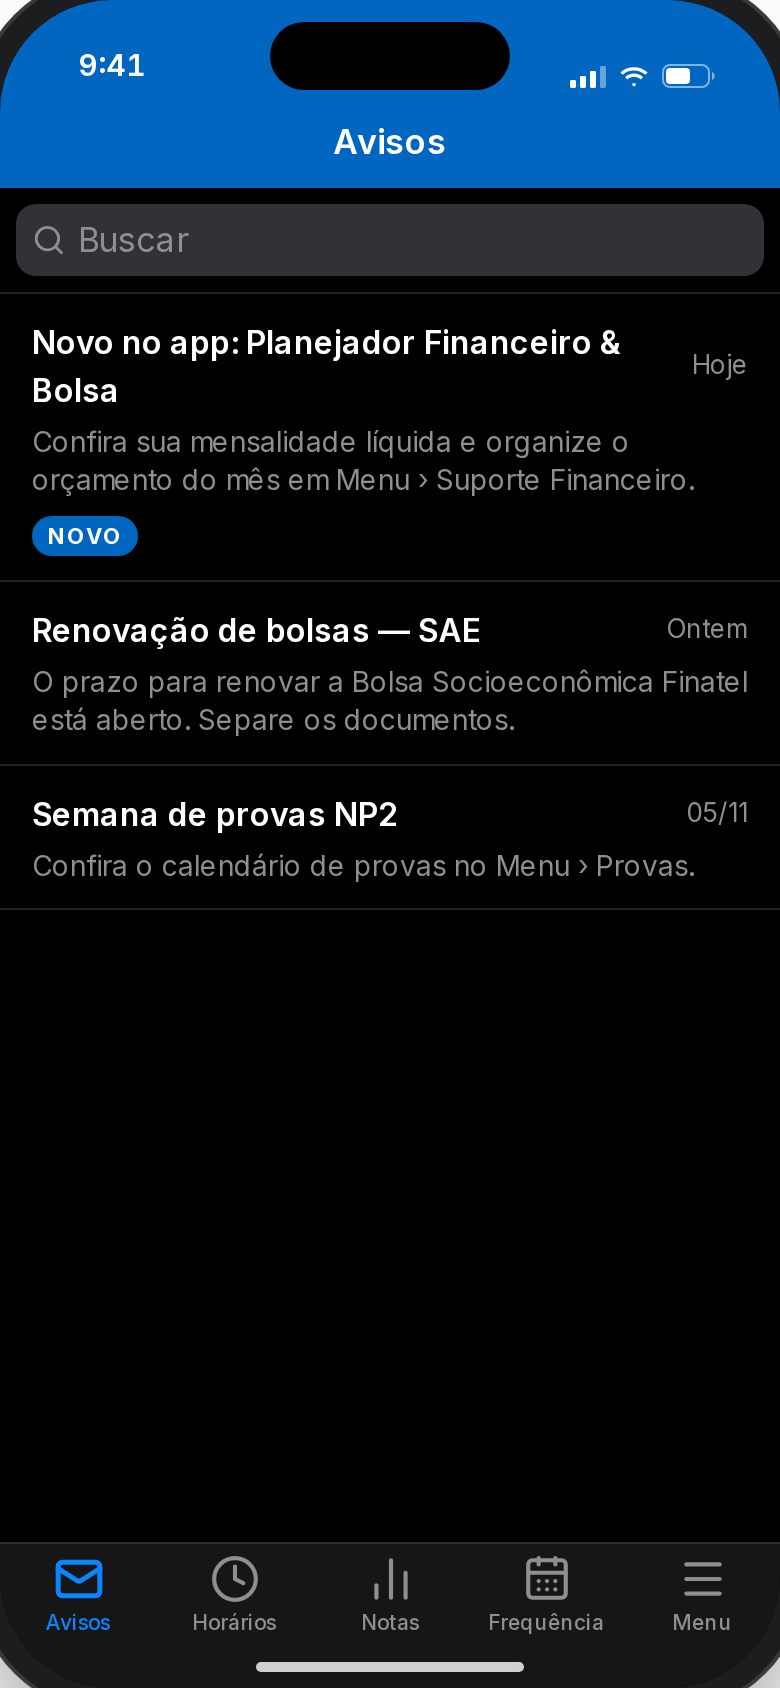
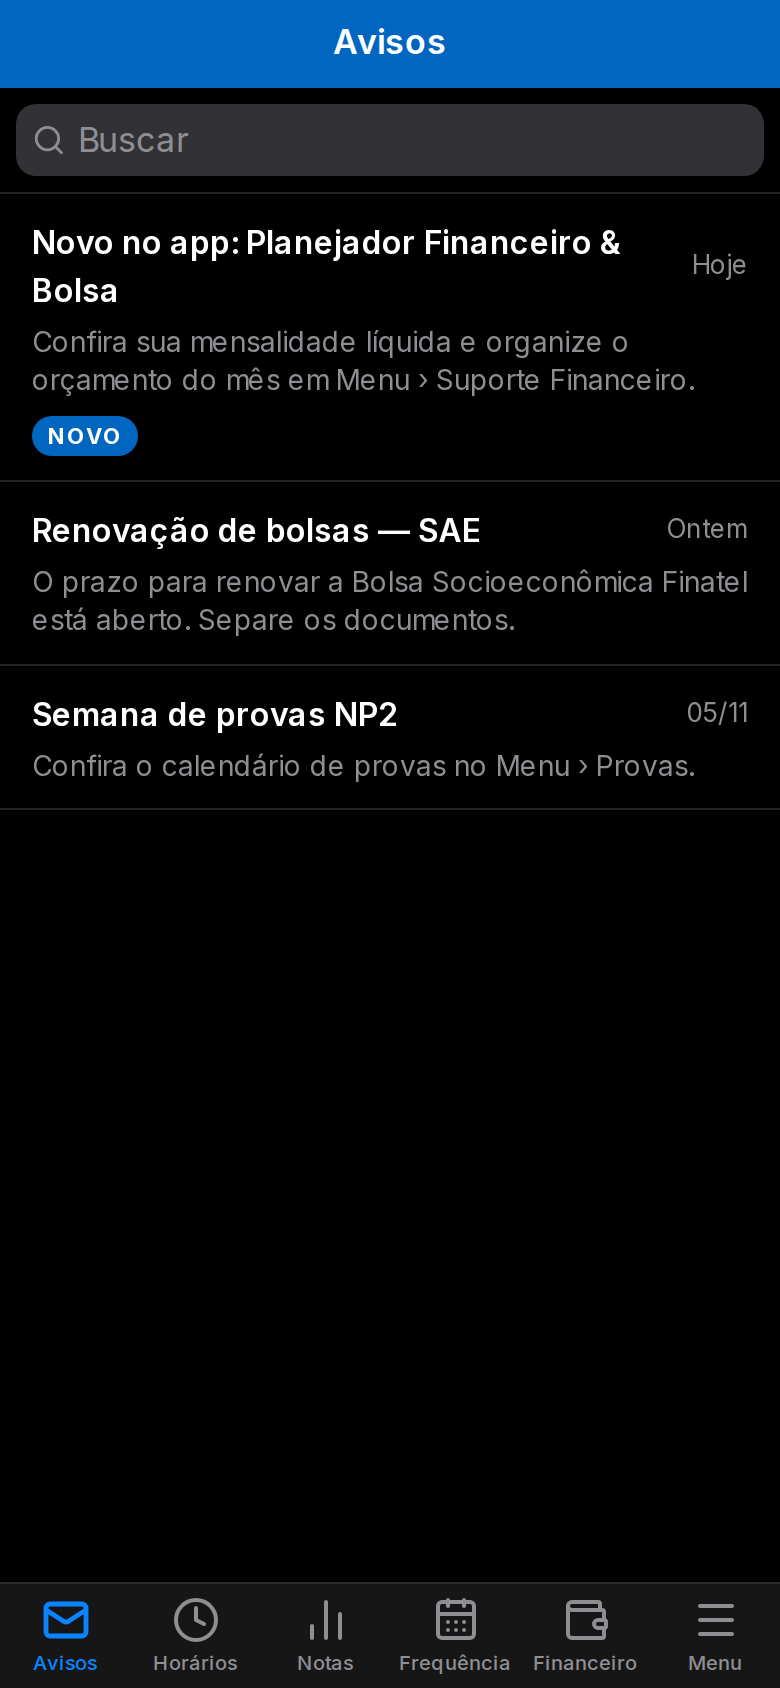
docs(referencias): atualiza telas, estados e texto para o app publicado

diff --git a/referencias/conteudo-das-paginas.md b/referencias/conteudo-das-paginas.md
@@ -1,6 +1,8 @@
-# Conteúdo das 5 páginas do PDF
+# Conteúdo das 5 páginas da documentação
 
 Rafael Correa Barbosa — GES 745 · S05 — Interação Homem-Máquina (Ergonomia e Usabilidade) · Prof. Raphael C. M. Pereira
+
+> **Fonte de verdade:** o protótipo publicado em https://apphomemmaquina.vercel.app (repo `app_hm`). Este texto foi atualizado para bater com ele em 11/11/2026. O PDF em `entrega/` é a entrega anterior e ainda usa "Estudos" como terceira categoria.
 
 ## Regras da entrega (Moodle, tarefa Projeto Final)
 
@@ -12,10 +14,12 @@ Rafael Correa Barbosa — GES 745 · S05 — Interação Homem-Máquina (Ergonom
 
 **Planejador Financeiro & Bolsa** — nova funcionalidade do App Inatel Acadêmico · Eixo Suporte Financeiro
 
-**Justificativa pela persona:** Lucas Andrade, 20 anos, bolsista parcial no 4º período de Engenharia de Software, mora em república e diz: “Preciso saber quanto sobra no mês depois de pagar a parcela da faculdade e a república.” Hoje o App Inatel mostra notas e horários, mas não liga o desconto da bolsa ao custo de vida. O Planejador Financeiro & Bolsa traz a mensalidade líquida já calculada a partir dos dados da SAE e divide o saldo que sobra entre Moradia, Alimentação e Estudos, com os gastos guardados só no celular do aluno.
+**Protótipo:** https://apphomemmaquina.vercel.app
+
+**Justificativa pela persona:** Lucas Andrade, 20 anos, bolsista parcial no 4º período de Engenharia de Software, mora em república e diz: “Preciso saber quanto sobra no mês depois de pagar a parcela da faculdade e a república.” Hoje o App Inatel mostra notas e horários, mas não liga o desconto da bolsa ao custo de vida. O Planejador Financeiro & Bolsa traz a mensalidade líquida já calculada a partir dos dados da SAE e divide o saldo que sobra entre Moradia, Alimentação e Outros gastos, com os gastos guardados só no celular do aluno.
 
 **Simulação de input, processamento e feedback:**
-- **Input:** Renda por fonte com máscara de moeda, tetos por controle deslizante e teclado numérico próprio com categoria em 1 toque.
+- **Input:** Renda por fonte com máscara de moeda, tetos por controle deslizante e teclado numérico próprio com categoria em 1 toque. Em Outros gastos, o aluno escolhe ou cria uma subcategoria.
 - **Processamento:** Desconto da bolsa, parcela líquida, saldo livre, tetos que somam 100% ao centavo e comprometimento por categoria (código testado).
 - **Feedback:** Sincronização com o Portal/SAE, valores animados, barras com estado (ok, atenção, estouro), alertas, confirmação e “Desfazer”.
 
@@ -31,7 +35,7 @@ Imagens da capa: `referencias/telas-finais/tela-05.png`, `tela-09.png`, `tela-10
 |---|---|
 | Identificação e citação | Lucas Andrade, 20 anos, 4º período (P4) de Engenharia de Software, bolsista parcial (Finatel/Fundacred). “Preciso saber quanto sobra no mês depois de pagar a parcela da faculdade e a república.” |
 | Características-chave | Mora em república em Santa Rita do Sapucaí; bolsa parcial administrada via SAE/Fundacred; recebe auxílio mensal da família somado a uma bolsa de iniciação científica. |
-| Objetivos-chave | Ver o valor líquido exato da mensalidade já com a bolsa e distribuir o saldo restante entre moradia, alimentação e estudos sem estourar o mês. |
+| Objetivos-chave | Ver o valor líquido exato da mensalidade já com a bolsa e distribuir o saldo restante entre moradia, alimentação e outros gastos sem estourar o mês. |
 | Dores principais | Dificuldade em prever o impacto de créditos e reajustes na parcela líquida; falta de uma visão que una a mensalidade do Inatel aos gastos fixos de estudante. |
 | O que nunca devemos fazer | Entregar uma tela vazia tipo “bloco de notas” que exija cálculos manuais da bolsa, ou expor gastos pessoais fora do armazenamento local do celular. |
 
@@ -44,8 +48,8 @@ Imagens da capa: `referencias/telas-finais/tela-05.png`, `tela-09.png`, `tela-10
 **Critérios de aceite:**
 1. A mensalidade líquida aparece já calculada (bruto − desconto da bolsa), sem digitação.
 2. Com a renda informada, o saldo livre pós-mensalidade é calculado na hora; renda insuficiente bloqueia o avanço com explicação.
-3. Os tetos de Moradia, Alimentação e Estudos sempre somam 100% e têm divisão sugerida (50/30/20).
-4. Um gasto é registrado com valor + 1 toque na categoria e atualiza a barra e o saldo restante.
+3. Os tetos de Moradia, Alimentação e Outros gastos sempre somam 100% e têm divisão sugerida (50/30/20).
+4. Um gasto é registrado com valor + 1 toque na categoria (em Outros gastos, também a subcategoria) e atualiza a barra e o saldo restante.
 5. Os gastos ficam só no armazenamento local do celular e podem ser apagados pelo aluno.
 
 ## 3. Análise da Tarefa (HTA)
@@ -57,13 +61,13 @@ Imagens da capa: `referencias/telas-finais/tela-05.png`, `tela-09.png`, `tela-10
   - 1.2 Visualizar mensalidade líquida (Finatel / Fundacred / FIES)
 - **2. Estruturar orçamento local** (Plano 2: 2.1 > 2.2)
   - 2.1 Informar renda / auxílio mensal (abatendo a parcela líquida)
-  - 2.2 Definir tetos por categoria (Moradia, Alimentação, Estudos)
+  - 2.2 Definir tetos por categoria (Moradia, Alimentação, Outros gastos)
 - **3. Lançar gasto e ver saldo** (Plano 3: 3.1 > 3.2)
   - 3.1 Registrar despesa rápida em categoria pré-definida
   - 3.2 Consultar barra de saldo livre e comprometimento
 
 - **Plano 0 (1 > 2 > 3):** No início do mês, acessar o módulo para conferir a parcela líquida (1), definir a renda e os tetos (2) e, ao longo do mês, registrar despesas conferindo o saldo livre (3).
-- **Iteração mensal (repetir 3):** Sempre que houver uma despesa relevante em Moradia, Alimentação ou Estudos, executar só o subobjetivo 3 para atualizar o saldo.
+- **Iteração mensal (repetir 3):** Sempre que houver uma despesa relevante em Moradia, Alimentação ou Outros gastos, executar só o subobjetivo 3 para atualizar o saldo.
 
 **Tabela 2 — Planos, entradas, feedbacks, problemas e recomendações**
 
@@ -71,87 +75,111 @@ Imagens da capa: `referencias/telas-finais/tela-05.png`, `tela-09.png`, `tela-10
 |---|---|---|---|---|---|---|
 | 1. Conferir bolsa e parcela (1.1, 1.2) | Abrir Suporte Financeiro (1.1) e ver o resumo da mensalidade líquida (1.2). | Dados do Portal Acadêmico/SAE: valor bruto, % da bolsa, cotas, prazo de renovação. | Tabela com bruto, desconto, parcela líquida e vencimento; selo “atualizado hoje”. | Dúvida sobre o que é reembolsável e perda do prazo de renovação. | Discriminar as cotas (Tela 6) e alertar a renovação com cor e contagem de dias. | Telas 4, 5 e 6 |
 | 2. Estruturar orçamento local (2.1, 2.2) | Informar a renda (2.1) e distribuir tetos nas categorias (2.2). | Renda por fonte (auxílio, estágio, bolsa IC) e percentuais por categoria. | Saldo livre calculado na hora; tetos em R$ que somam 100%; aviso se a renda não cobre a parcela. | Abandono se exigir preenchimento extenso como planilha. | Categorias prontas, divisão sugerida 50/30/20 e controles que se reequilibram. | Telas 7 e 8 |
-| 3. Lançar gasto e ver saldo (3.1, 3.2) | Registrar o valor em uma categoria (3.1) e consultar o comprometimento (3.2). | Valor no teclado numérico e 1 toque na categoria. | Barra da categoria animada (ok/atenção/estouro), saldo restante, toast com “Desfazer”. | Receio de privacidade e erro de digitação. | Guardar só no celular, avisar antes de estourar o teto e permitir desfazer. | Telas 9 e 10 |
+| 3. Lançar gasto e ver saldo (3.1, 3.2) | Registrar o valor em uma categoria (3.1) e consultar o comprometimento (3.2). | Valor no teclado numérico, 1 toque na categoria e, em Outros gastos, a subcategoria. | Barra da categoria animada (ok/atenção/estouro), saldo restante, divisão de Outros gastos por subcategoria, toast com “Desfazer”. | Receio de privacidade e erro de digitação. | Guardar só no celular, avisar antes de estourar o teto e permitir desfazer. | Telas 9 e 10 |
 
 **Critérios de usabilidade (NBR ISO 9241-11):**
 - **Eficácia:** O aluno vê a mensalidade líquida correta e monta o orçamento sem erros de cálculo (regras testadas, valores em centavos).
-- **Eficiência:** O desconto já vem preenchido; um gasto leva 3 toques (valor, categoria, registrar), sem digitação livre.
+- **Eficiência:** O desconto já vem preenchido; um gasto leva 3 toques em Moradia ou Alimentação (valor, categoria, registrar) e 4 em Outros gastos (mais a subcategoria), sem digitação livre.
 - **Satisfação:** Sensação de controle com barras e estados claros, e privacidade garantida pelo armazenamento local.
 
 ## 4. Fluxo de Informação — Diagrama de Classes
 
-Membros com ★ foram acrescentados no protótipo final.
+Membros com ★ foram acrescentados depois da entrega do Diagrama de Classes. A serialização (`toDados`, `fromDados`, `migrarDados`) fica fora do diagrama. Valores em `Centavos` (inteiro).
 
 ### Aluno  (`src/domain/Aluno.ts` no app_hm)
 ```
 - nome: string
 - matricula: string
 - periodo: number
+- curso: string ★
+- email: string ★
 ---
 + autenticar(matricula, senha): boolean
 ```
 ### SuporteFinanceiro  (`src/domain/SuporteFinanceiro.ts` no app_hm)
 ```
-- telaAtiva: string
+- telaAtiva: "resumo" | "orcamento"
 ---
 + abrirResumo(): void
 + abrirOrcamento(): void
-+ sincronizarPortal(): Mensalidade
++ sincronizarPortal(hoje): Promise<Mensalidade>
 ```
 ### Mensalidade  (`src/domain/Mensalidade.ts` no app_hm)
 ```
 - mesReferencia: string
-- valorBruto: number
-- dataVencimento: string
-/ descontoAplicado: number
-/ parcelaLiquida: number
+- valorBruto: Centavos
+- dataVencimento: DataISO
+- bolsas: Bolsa[] ★
+/ descontoAplicado: Centavos
+/ parcelaLiquida: Centavos
+/ percentualDesconto: number ★
 ---
-+ calcularParcelaLiquida(): number
++ calcularParcelaLiquida(): Centavos
 + exibirResumo(): ResumoMensalidade
 ```
 ### Bolsa  (`src/domain/Bolsa.ts` no app_hm)
 ```
-- tipo: string
+- tipo: Finatel | Fundacred | FIES | Beneficente | Merito
+- nome: string ★
 - percentual: number
 - cotaNaoReembolsavel: number
 - cotaReembolsavel: number
-- dataRenovacao: string
+- dataRenovacao: DataISO
 ---
-+ calcularDesconto(valorBruto): number
++ calcularDesconto(valorBruto): Centavos
++ valorNaoReembolsavel(valorBruto): Centavos ★
++ valorReembolsavel(valorBruto): Centavos ★
 + verificarRenovacao(hoje): boolean
 + diasParaRenovacao(hoje): number ★
++ nivelRenovacao(hoje): tranquilo | atencao | urgente | vencida ★
 ```
 ### OrcamentoMensal  (`src/domain/OrcamentoMensal.ts` no app_hm)
 ```
 - mesReferencia: string
-- rendaMensal: number
-/ saldoLivre: number
-/ saldoRestante: number
+- rendaMensal: Centavos
+- fontes: auxilio | estagio | bolsaIC → Centavos ★
+- categorias: CategoriaGasto[3]
+/ saldoLivre: Centavos
+/ saldoRestante: Centavos
+/ totalGasto: Centavos ★
+/ comprometimento: number ★
+/ estado: ok | atencao | estouro ★
 ---
-+ informarRenda(valor: number): void
-+ calcularSaldoLivre(m: Mensalidade): number
++ informarRenda(valor): void
++ calcularSaldoLivre(m: Mensalidade): Centavos
 + sugerirTetos(): void
-+ calcularSaldoRestante(): number
-+ removerDespesa(id: string): Despesa ★
++ definirTetos(percentuais): void ★
++ tetoDe(categoria): Centavos ★
++ categoria(id): CategoriaGasto ★
++ calcularSaldoRestante(): Centavos
++ removerDespesa(id): Despesa | undefined ★
 + salvarLocal(): boolean
 ```
 ### CategoriaGasto  (`src/domain/CategoriaGasto.ts` no app_hm)
 ```
+- id: moradia | alimentacao | outros ★
 - nome: string
 - percentualTeto: number
-/ valorTeto: number
-/ totalGasto: number
+- subcategorias: string[] ★
+/ valorTeto: Centavos
+/ totalGasto: Centavos
+/ disponivel: Centavos ★
+/ estado: ok | atencao | estouro ★
 ---
-+ definirTeto(percentual: number): void
-+ registrarDespesa(valor: number): Despesa
++ definirTeto(percentual): void
++ registrarDespesa(valor, data?, subcategoria?): Despesa
++ adicionarSubcategoria(nome): string ★
++ totalPorSubcategoria(): {nome, total}[] ★
 + calcularComprometimento(): number
-+ excessoSeRegistrar(valor): number ★
++ excessoSeRegistrar(valor): Centavos ★
 ```
 ### Despesa  (`src/domain/Despesa.ts` no app_hm)
 ```
 - id: string ★
-- valor: number
+- valor: Centavos
 - data: string
+- categoriaId: CategoriaId ★
+- subcategoria?: string ★
 ---
 + salvarLocal(): boolean
 ```
@@ -164,27 +192,43 @@ Membros com ★ foram acrescentados no protótipo final.
 - CategoriaGasto → Despesa: composicao, “registra” (1..1 : 0..*)
 - OrcamentoMensal → Mensalidade: dependencia, “usa a parcela líquida”
 
+**Dados de demonstração do protótipo:** valor bruto R$ 2.850,00; Bolsa Socioeconômica Finatel 40% (20% não reembolsável + 20% reembolsável) = desconto R$ 1.140,00; parcela líquida R$ 1.710,00; renovação na SAE em 25 dias a partir de hoje. As capturas usam renda de R$ 2.900,00 (auxílio R$ 2.200,00 + bolsa IC R$ 700,00), saldo livre R$ 1.190,00 e tetos 50/30/20 (R$ 595,00 / R$ 357,00 / R$ 238,00).
+
 ## 5. Wireframe
 
-Wireframe entregue: `referencias/wireframe-recortes/wf-NN.png` · Tela final: `referencias/telas-finais/tela-NN.png`
+Wireframe entregue (histórico, ainda com “Estudos”): `referencias/wireframe-recortes/wf-NN.png` · Tela final atual: `referencias/telas-finais/tela-NN.png`
 
-| # | Tela | Tipo | HTA | Classes / métodos | Navegação |
+| # | Tela (título no app) | Tipo | HTA | Classes / métodos | Navegação |
 |---|---|---|---|---|---|
 | 1 | Perfis Salvos | existente | — | — | Perfil salvo → Tela 2 |
-| 2 | Autenticação | existente | — | Aluno.autenticar() | Autenticar → Tela 3 |
-| 3 | Avisos (início) | existente | — | — | Aba Menu → Tela 4 |
+| 2 | Autenticação (Inatel Acadêmico) | existente | — | Aluno.autenticar() | Curso → Tela 2b · Autenticar → Tela 3 |
+| 2b | Escolha o seu curso | existente | — | Aluno.curso | Curso escolhido → Tela 2 |
+| 3 | Avisos (início) | existente | — | — | Aba Menu → Tela 4 · Aba Financeiro → Tela 5 |
 | 4 | Menu | alterada | 1.1 | Aluno acessa SuporteFinanceiro | Planejador Financeiro & Bolsa (NOVO) → Tela 5 |
-| 5 | Resumo da Mensalidade | nova | 1.2 | SuporteFinanceiro.abrirResumo(); Mensalidade.calcularParcelaLiquida(); Bolsa.verificarRenovacao() | Bolsa → 6 · Planejar orçamento → 7 · Aba Orçamento → 9 |
-| 6 | Detalhes da Bolsa | nova | 1.2 | Bolsa: percentual, cotas, dataRenovacao | Voltar → 5 |
-| 7 | Informar Renda | nova | 2.1 | OrcamentoMensal.informarRenda(); calcularSaldoLivre(Mensalidade) | Continuar → 8 |
-| 8 | Definir Tetos | nova | 2.2 | OrcamentoMensal.sugerirTetos(); CategoriaGasto.definirTeto() | Salvar orçamento → 9 |
-| 9 | Painel do Orçamento | nova | 3.2 | OrcamentoMensal.calcularSaldoRestante(); CategoriaGasto.calcularComprometimento() | + Lançar gasto → 10 · Aba Resumo → 5 |
-| 10 | Lançar Gasto | nova | 3.1 | CategoriaGasto.registrarDespesa(); Despesa.salvarLocal() | Registrar ou Cancelar → 9 |
+| 5 | Suporte Financeiro · Resumo | nova | 1.2 | SuporteFinanceiro.abrirResumo(); Mensalidade.calcularParcelaLiquida(); Bolsa.verificarRenovacao() | Bolsa → 6 · Planejar orçamento do mês → 7 · Orçamento → 9 |
+| 6 | Detalhes da Bolsa | nova | 1.2 | Bolsa: percentual, cotas, dataRenovacao, nivelRenovacao() | Voltar → 5 |
+| 7 | Planejar Orçamento · Passo 1 (renda) | nova | 2.1 | OrcamentoMensal.informarRenda(); calcularSaldoLivre(Mensalidade) | Continuar → 8 |
+| 8 | Planejar Orçamento · Passo 2 (tetos) | nova | 2.2 | OrcamentoMensal.sugerirTetos(); definirTetos(); CategoriaGasto.definirTeto() | Salvar orçamento → 9 |
+| 9 | Suporte Financeiro · Orçamento | nova | 3.2 | OrcamentoMensal.calcularSaldoRestante(); CategoriaGasto.calcularComprometimento(); totalPorSubcategoria() | + Lançar gasto → 10 · Resumo → 5 |
+| 10 | Lançar Gasto | nova | 3.1 | CategoriaGasto.registrarDespesa(); adicionarSubcategoria(); Despesa.salvarLocal() | Registrar ou Cancelar → 9 |
 
-**Estados extras implementados:**
-- Sincronizando com o Portal/SAE (skeleton) nas telas 5–10
-- Renda insuficiente: alerta e Continuar bloqueado (Tela 7)
-- Orçamento vazio com chamada para planejar (Tela 9)
-- Aviso antes de passar do teto, com confirmação (Tela 10)
-- Histórico de gastos com remover + Desfazer (Tela 9)
-- Apagar meus dados com confirmação (Tela 9)
+Mudanças do app em relação ao wireframe entregue:
+- A terceira categoria passou de “Estudos” para **Outros gastos**, com subcategorias (Estudos / Material, Lazer, Investimento, Viagem / Transporte, ou uma criada pelo aluno).
+- A barra de abas ganhou a aba **Financeiro**; Horários, Notas e Frequência ficam desativadas no protótipo.
+- A Tela 3 mostra o aviso “Novo no app: Planejador Financeiro & Bolsa”.
+- No computador, um menu lateral substitui as abas.
+- O Menu tem “Voltar ao começo da demo”, que apaga os dados e volta à Tela 1.
+
+**Estados extras implementados** (`referencias/estados/`):
+
+| Estado | Tela | Imagem |
+|---|---|---|
+| Sincronizando com o Portal/SAE (skeleton) | 5 a 10 | `estado-05-sincronizando.png` |
+| Renda insuficiente: alerta e Continuar bloqueado | 7 | `estado-07-renda-insuficiente.png` |
+| Orçamento vazio com chamada para planejar | 9 | `estado-09-vazio.png` |
+| Gasto removido com “Desfazer” | 9 | `estado-09-historico-desfazer.png` |
+| Apagar meus dados com confirmação | 9 | `estado-09-apagar-dados.png` |
+| Aviso antes de passar do teto, com confirmação | 10 | `estado-10-passar-do-teto.png` |
+| Nova subcategoria em Outros gastos | 10 | `estado-10-nova-subcategoria.png` |
+
+Capturas geradas por `npm run capturas` (`scripts/capturas.mjs`): 390×844 @2x, tema escuro, sem moldura de aparelho.
